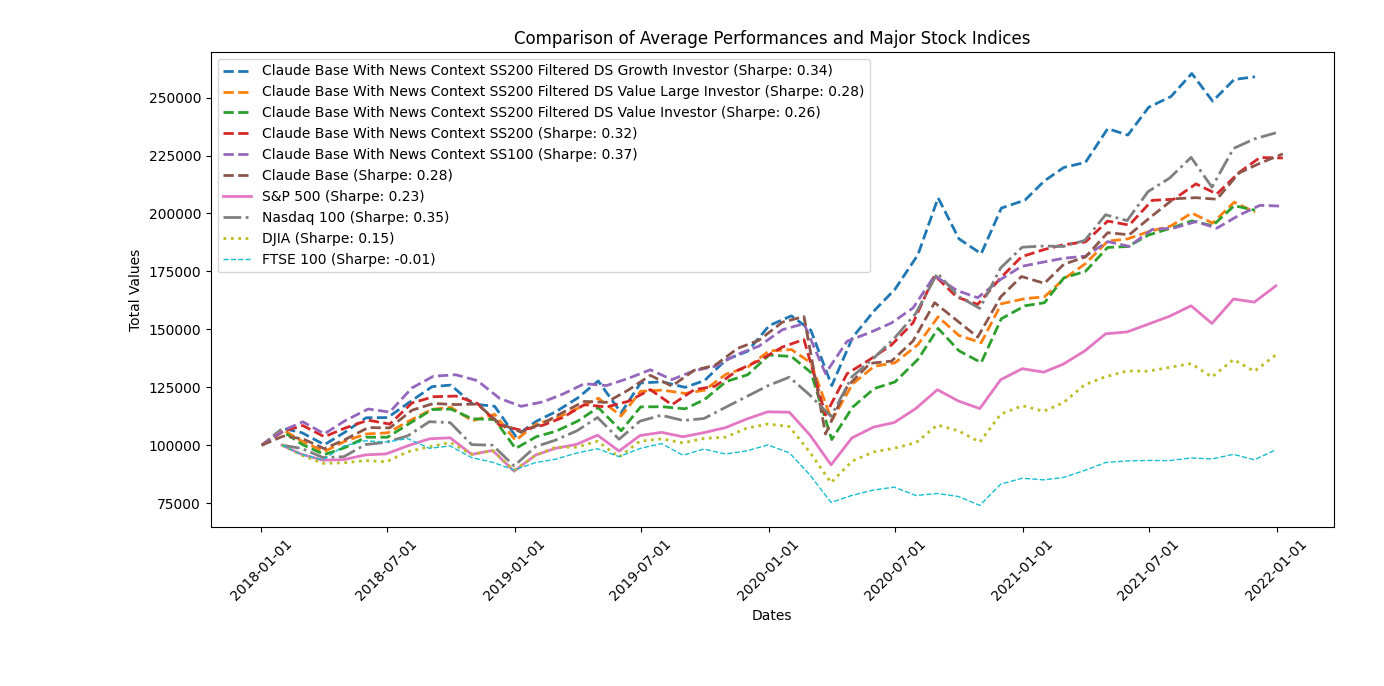
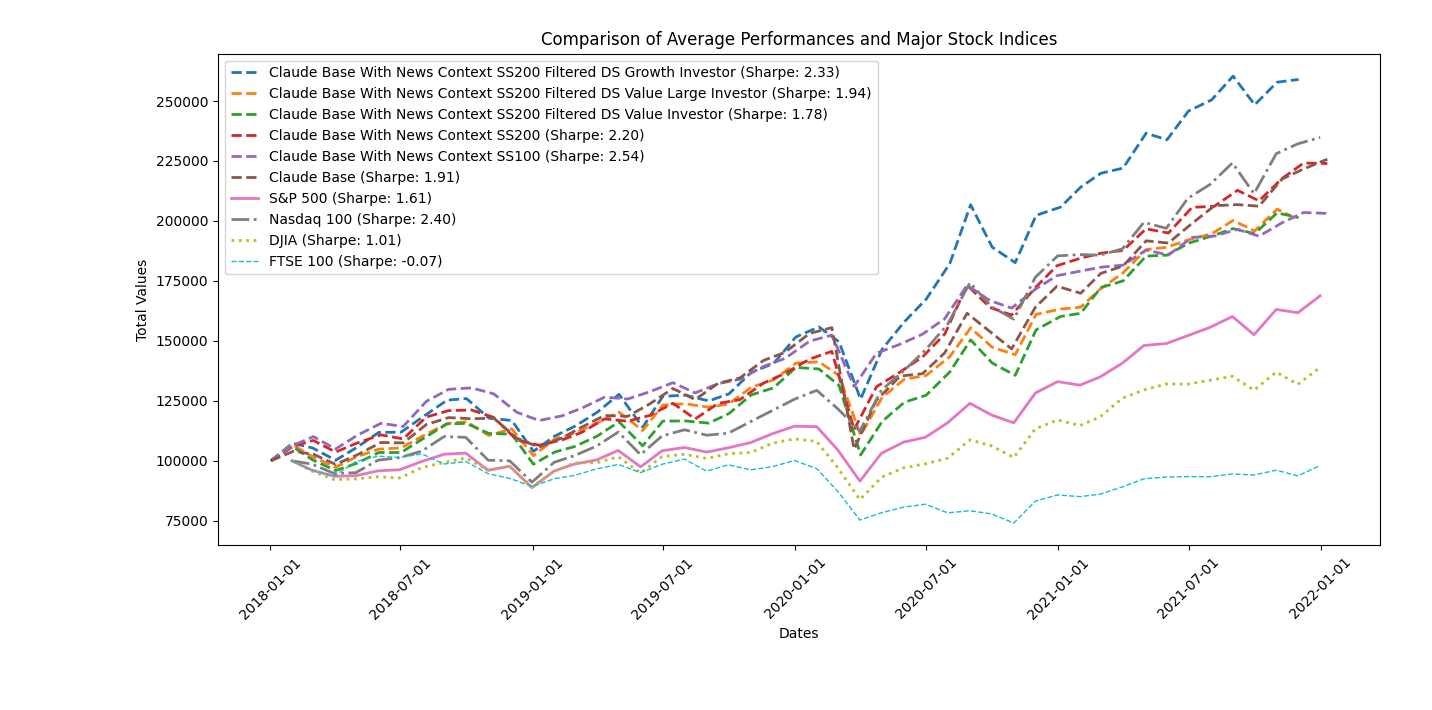
scaled sharpe ratio and updated graphic

diff --git a/projects/buffet_bot/benchmark.py b/projects/buffet_bot/benchmark.py
@@ -10,6 +10,15 @@ from fredapi import Fred
 
 
 def get_average_values(folder):
+    """Get the average values for each date from a folder of experiments.
+    
+    Args:
+        folder (str): The folder name.
+    
+    Returns:
+        average_dates (list): A list of datetime objects.
+        average_values_list (list): A list of average values.
+    """
     results_list = []
     for filename in glob.glob(f"output/experiments/{folder}/*.json"):
         with open(filename, "r") as f:
@@ -31,12 +40,20 @@ def get_average_values(folder):
 
     return average_dates, average_values_list
 
-
 def calculate_sharpe_ratio(returns, risk_free_rate):
+    """Calculate the Sharpe ratio of a list of returns.
+
+    Sharpe ratio is scaled by the square root of the sample size.
+    
+    Args:
+        returns (list): A list of returns.
+        risk_free_rate (float): The risk-free rate.
+    """
     excess_returns = returns - risk_free_rate
+    n = len(excess_returns)
     # Ensure there are enough data points for calculation
-    if len(excess_returns) > 0:
-        sharpe_ratio = np.mean(excess_returns) / np.std(excess_returns)
+    if n > 0:
+        sharpe_ratio = np.mean(excess_returns) / np.std(excess_returns) * np.sqrt(n)
     else:
         sharpe_ratio = 0
     return sharpe_ratio
